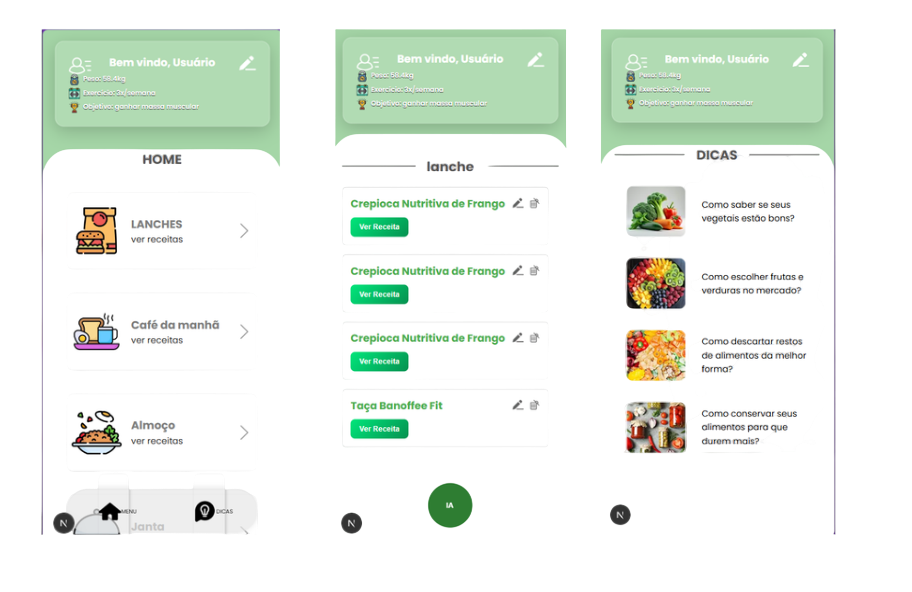
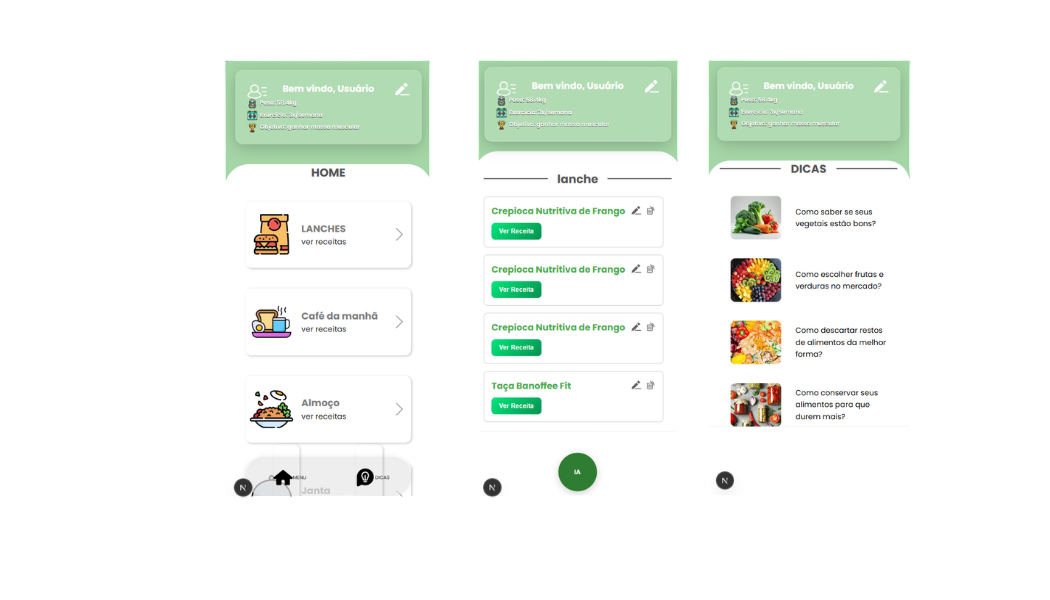
ajustes finais + adição da foto de perfil

diff --git a/portfolio/src/app/_components/footer.tsx b/portfolio/src/app/_components/footer.tsx
@@ -1,42 +1,81 @@
+import { Github, Linkedin, FileText } from "lucide-react";
+
 export function Footer() {
-    return (
-        <div style={{ background: "var(--container-color" }} className="w-full h-auto relative pt-20 pb-10 overflow-hidden text-amber-50">
-                <div className="container mx-auto px-6">
-                    <div className="grid grid-cols-1 md:grid-cols-3 gap-12 items-center">
-                        
-                     
-                        <div className="flex flex-col space-y-4 text-center md:text-left">
-                            <h2 className="text-3xl font-bold bg-linear-to-r from-white to-amber-100 bg-clip-text text-transparent drop-shadow-sm">
-                                Lettycia.Portfólio
-                            </h2>
-                            <p className="text-sm max-w-xs mx-auto md:mx-0">
-                                Transformando código em soluções digitais de alto impacto. 
-                                Vamos construir algo incrível juntos?
-                            </p>
-                        </div>
+  return (
+    <footer 
+      style={{ background: "var(--container-color)" }} 
+      className="w-full relative pt-16 pb-8 overflow-hidden text-white"
+    >
+      {/* Detalhe Decorativo */}
+      <div className="absolute top-0 left-1/4 w-64 h-64 bg-white/10 rounded-full blur-[80px] -z-10"></div>
 
-                        
-              
-                        <div className="text-center md:text-right">
-                            <h3 className="font-semibold mb-4">Quick Links</h3>
-                            <ul className="space-y-2 text-sm">
-                                <li><a href="#" >Sobre mim</a></li>
-                                <li><a href="#" >Projetos</a></li>
-                                <li><a href="#" >Contato</a></li>
-                            </ul>
-                        </div>
-                        
-                    </div>
+      <div className="container mx-auto px-6">
+        <div className="grid grid-cols-1 md:grid-cols-2 gap-12 items-start">
+          
+          {/* Coluna 1: Branding e Social */}
+          <div className="flex flex-col space-y-4 text-center md:text-left">
+            <h2 className="text-2xl font-bold tracking-tight">
+              Lettycia<span className="text-white/70">.dev</span>
+            </h2>
+            <p className="text-white/80 text-sm max-w-xs mx-auto md:mx-0 leading-relaxed">
+              Transformando código em soluções digitais de alto impacto. 
+              Vamos construir algo incrível juntos?
+            </p>
+            
+            {/* Redes Sociais e CV unificados */}
+            <div className="flex justify-center md:justify-start gap-4 pt-2">
+              <a 
+                href="https://github.com/LettyciaDev" 
+                target="_blank" 
+                rel="noopener noreferrer"
+                className="p-2.5 bg-white/10 hover:bg-white/20 rounded-lg transition-all border border-white/10 hover:scale-110 active:scale-95"
+                title="GitHub"
+              >
+                <Github size={20} />
+              </a>
+              <a 
+                href="https://linkedin.com/in/lettycia-vitoria" 
+                target="_blank" 
+                rel="noopener noreferrer"
+                className="p-2.5 bg-white/10 hover:bg-white/20 rounded-lg transition-all border border-white/10 hover:scale-110 active:scale-95"
+                title="LinkedIn"
+              >
+                <Linkedin size={20} />
+              </a>
+              <a 
+                href="/curriculo.pdf" 
+                target="_blank" 
+                rel="noopener noreferrer"
+                className="p-2.5 bg-white/10 hover:bg-white/20 rounded-lg transition-all border border-white/10 hover:scale-110 active:scale-95"
+                title="Download CV"
+              >
+                <FileText size={20} />
+              </a>
+            </div>
+          </div>
 
-                    {/* Linha de Copyright */}
-                    <div className="mt-16 pt-8 border-t border-zinc-800 text-center">
-                        <p className="text-zinc-600 text-xs">
-                        © {new Date().getFullYear()} - Desenvolvido com <span className="text-amber-50">Next.js</span> e <span className="text-amber-50">Tailwind</span>.
-                        </p>
-                    </div>
-
-                </div>
-    
+          <div className="text-center md:text-right">
+            <h3 className="font-bold mb-6 text-white uppercase tracking-widest text-xs">Navegação</h3>
+            <ul className="space-y-3 text-sm font-medium">
+              <li>
+                <a href="#" className="text-white/80 hover:text-white transition-colors underline-offset-4">Sobre mim</a>
+              </li>
+              <li>
+                <a href="#" className="text-white/80 hover:text-white transition-colors underline-offset-4">Projetos</a>
+              </li>
+            </ul>
+          </div>
         </div>
-    );
+
+        <div className="mt-16 pt-8 border-t border-white/10 text-center">
+          <p className="text-white/60 text-[10px] md:text-xs tracking-wide uppercase">
+            © {new Date().getFullYear()} — Lettycia Vitória. Todos os direitos reservados.
+          </p>
+          <p className="text-white/40 text-[10px] mt-2 italic">
+            Desenvolvido com Next.js & Tailwind
+          </p>
+        </div>
+      </div>
+    </footer>
+  );
 }

diff --git a/portfolio/src/app/_components/sub_components/about_section.tsx b/portfolio/src/app/_components/sub_components/about_section.tsx
@@ -1,32 +1,31 @@
 export function Diagram() {
     const classes = [
-            {
-              class: "Pessoa", 
-              atr1: "+ nome: Lettycia Vitória", 
-              atr2: "+ idade: 19",
-              atr3: "+ apelido: Lele",
-              method: "+ descricao(): Me chamo Lettycia Vitória, entusiata da tecnologia e sempre disponível a aprender algo novo",
-            }, 
+      {
+        class: "Pessoa",
+        atr1: "+ nome: Lettycia Vitória",
+        atr2: "+ idade: 19",
+        atr3: "+ apelido: Letty",
+        method: "+ descricao(): Entusiasta da tecnologia movida por curiosidade intelectual e resiliente na resolução de problemas."
+      },
 
-            {
-              class: "Estudante", 
-              atr1: "+ curso: Ciência da Computação", 
-              atr2: "+ período: 5º",
-              atr3: "+ instituição: Unicap",
-              method: "+ descricao():  Atualmente, aprendendo conceitos mais completos para o desenvolvimento de uma aplicação."
-            },
+      {
+        class: "Estudante",
+        atr1: "+ curso: Ciência da Computação",
+        atr2: "+ período: 5º",
+        atr3: "+ instituição: Unicap",
+        method: "+ descricao(): Focada em Análise de Algoritmos e Redes de Computadores, explorando a integração de IA e práticas modernas de Desenvolvimento Web."
+      },
 
-            {
-              class: "Dev-backend", 
-              atr1: "+ linguagens: Java, C, Python", 
-              atr2: "+ cargo: Estagiária",
-              atr3: "+ empresa: Lunio",
-              method: "+ descricao(): Atualmente atuo como estagiária na área de desenvolvimento backend"
-            }
-       ]
+      {
+        class: "Dev-backend",
+        atr1: "+ linguagens: Java, C, Python",
+        atr2: "+ cargo: Estagiária",
+        atr3: "+ empresa: Lunio",
+        method: "+ descricao(): Atuando no ciclo de vida de APIs, focada em otimização de performance e integridade de dados no ecossistema backend."
+      }
+    ]
     
-    const boxAtr = "w-[25vh] h-[28vh] bg-[#F8F8F875] rounded-4xl shadow-md";
-    const boxTitle = "h-[3vh] border-b-2 border-be-amber-50 text-center";
+    
 
     return (
         <div className="w-full max-w-6xl mx-auto px-4 mt-20 mb-20">

diff --git a/portfolio/src/app/_components/hero.tsx b/portfolio/src/app/_components/hero.tsx
@@ -68,6 +68,28 @@ export function Hero() {
 
     </div>
   </div>
+
+ <div className="absolute -bottom-16 z-20 w-2/3 md:w-1/2 h-1/4 rounded-b-xl overflow-hidden">
+         <div style={{ background: "var(--mask-gradient" }} className="w-full h-full">
+        </div>
+  </div>
+
+ <div className="absolute -bottom-16 right-0 left-0 w-auto h-auto mx-auto z-18 flex justify-center group max-w-sm">
+    
+    <div className="absolute top-1/2 left-1/2 -translate-x-1/2 -translate-y-1/2 w-3/4 h-3/4 bg-cyan-500/10 rounded-full blur-2xl group-hover:bg-cyan-500/20 transition-all duration-500"></div>
+    
+    <div className="relative overflow-hidden">
+      <Image 
+        src="/profile.png" 
+        alt="Profile" 
+        width={380} 
+        height={380} 
+        className="drop-shadow-[0_15px_30px_rgba(0,0,0,0.6)] transition-transform duration-700 group-hover:scale-[1.03]"
+        priority 
+      />
+  
+    </div>
+  </div>
 </div>
      );
 

diff --git a/portfolio/src/app/globals.css b/portfolio/src/app/globals.css
@@ -13,6 +13,7 @@
 );
 
   --bg-second:#F3F3FF;
+  --mask-gradient: linear-gradient(to top, var(--bg-color) 0%, rgba(255, 255, 255, 0.8) 50%, transparent 100%);
 }
 
 :root[data-theme='dark'] {
@@ -30,4 +31,19 @@
   --project: #0f172a;
 
   --bg-second:#424242;
+  --mask-gradient: linear-gradient(to top, var(--bg-color) 0%, rgba(30, 30, 30, 0.8) 50%, transparent 100%);
+}
+
+@keyframes float {
+  0% { transform: translateY(0px); }
+  50% { transform: translateY(-15px); }
+  100% { transform: translateY(0px); }
+}
+
+.animate-float {
+  animation: float 4s ease-in-out infinite;
+}
+
+.delay-200 {
+  animation-delay: 0.2s;
 }

diff --git a/portfolio/src/app/_components/sub_components/carousel.tsx b/portfolio/src/app/_components/sub_components/carousel.tsx
@@ -13,7 +13,7 @@ const slides = [
   {
     title: "CardapIA",
     description: "Site que gera receitas saudáveis com IA",
-    image: "/cyber.png",
+    image: "/cardapia.png",
     git: "https://github.com/LettyciaDev/PROJETO-WEB-MOBILE",
   },
 
@@ -60,7 +60,6 @@ export function Carousel() {
   }, [])
 
   const nextSlide = () => {
-    // Garante que não passamos do limite de cards existentes
     setCurrent((prev) => (prev + 1 >= slides.length - (itemsToShow - 1) ? 0 : prev + 1))
   }
 
@@ -96,19 +95,17 @@ export function Carousel() {
               {/* Corpo do Card */}
               <div className="relative h-[85%] w-full rounded-[25px] shadow-2xl flex flex-col justify-end text-white border border-white/10 overflow-hidden backdrop-blur-md"> 
                     
-                    {/* Imagem configurada para ENCAIXAR (contain) */}
                     <Image 
                       src={slide.image} 
                       alt={slide.title}
-                      fill // No Next.js, usar 'fill' com 'object-contain' é a forma mais segura
+                      fill 
                       sizes="(max-width: 768px) 100vw, 33vw"
-                      className="absolute inset-0 w-full h-full object-contain object-center z-0 p-4" // 'p-4' dá um respiro para a imagem não tocar nas bordas
+                      className="absolute inset-0 w-full h-full object-contain object-center z-0 p-4" 
                     />
 
-                    {/* Overlay de gradiente ajustado para não cobrir a imagem centralizada caso ela seja pequena */}
                     <div className="absolute inset-0 bg-linear-to-t from-gray-500 via-black/20 to-transparent z-10 pointer-events-none"></div>
 
-                    {/* Conteúdo do Texto */}
+              
                     <div className="p-6 sm:p-8 z-20 relative">
                       <h2 className="text-xl font-bold uppercase drop-shadow-lg text-white">
                         {slide.title}

diff --git a/portfolio/src/app/_components/nav.tsx b/portfolio/src/app/_components/nav.tsx
@@ -26,11 +26,10 @@ export function Nav(){
 
     return (
        <div className="flex justify-between items-center m-10 relative">
-      {/* Botão de Tema */}
       <button 
         onClick={toggleTheme}
         className="p-2 rounded-full border-2 transition-colors duration-300 z-50"
-        style={{ borderColor: 'var(--accent-color)' }}
+        
       >
         {theme === 'light' ? (
           <Moon size={24} color="#333" />
@@ -62,7 +61,7 @@ export function Nav(){
           <li className="cursor-pointer hover:text-green-500 transition-colors">PROJECTS</li>
           
           {/* Botão GAME */}
-          <li className="flex items-center gap-1 bg-(--box-color) font-bold text-amber-50 py-2 px-4 rounded-2xl hover:scale-105 transition-transform">
+          <li style={{ background: "var(--text-color)" }} className="flex items-center gap-1 font-bold text-amber-50 py-2 px-4 rounded-2xl hover:scale-105 transition-transform">
             <Image src="/game.png" alt="controle remoto" width={20} height={20} />
             <Link href="/hangman">GAME</Link>
           </li>